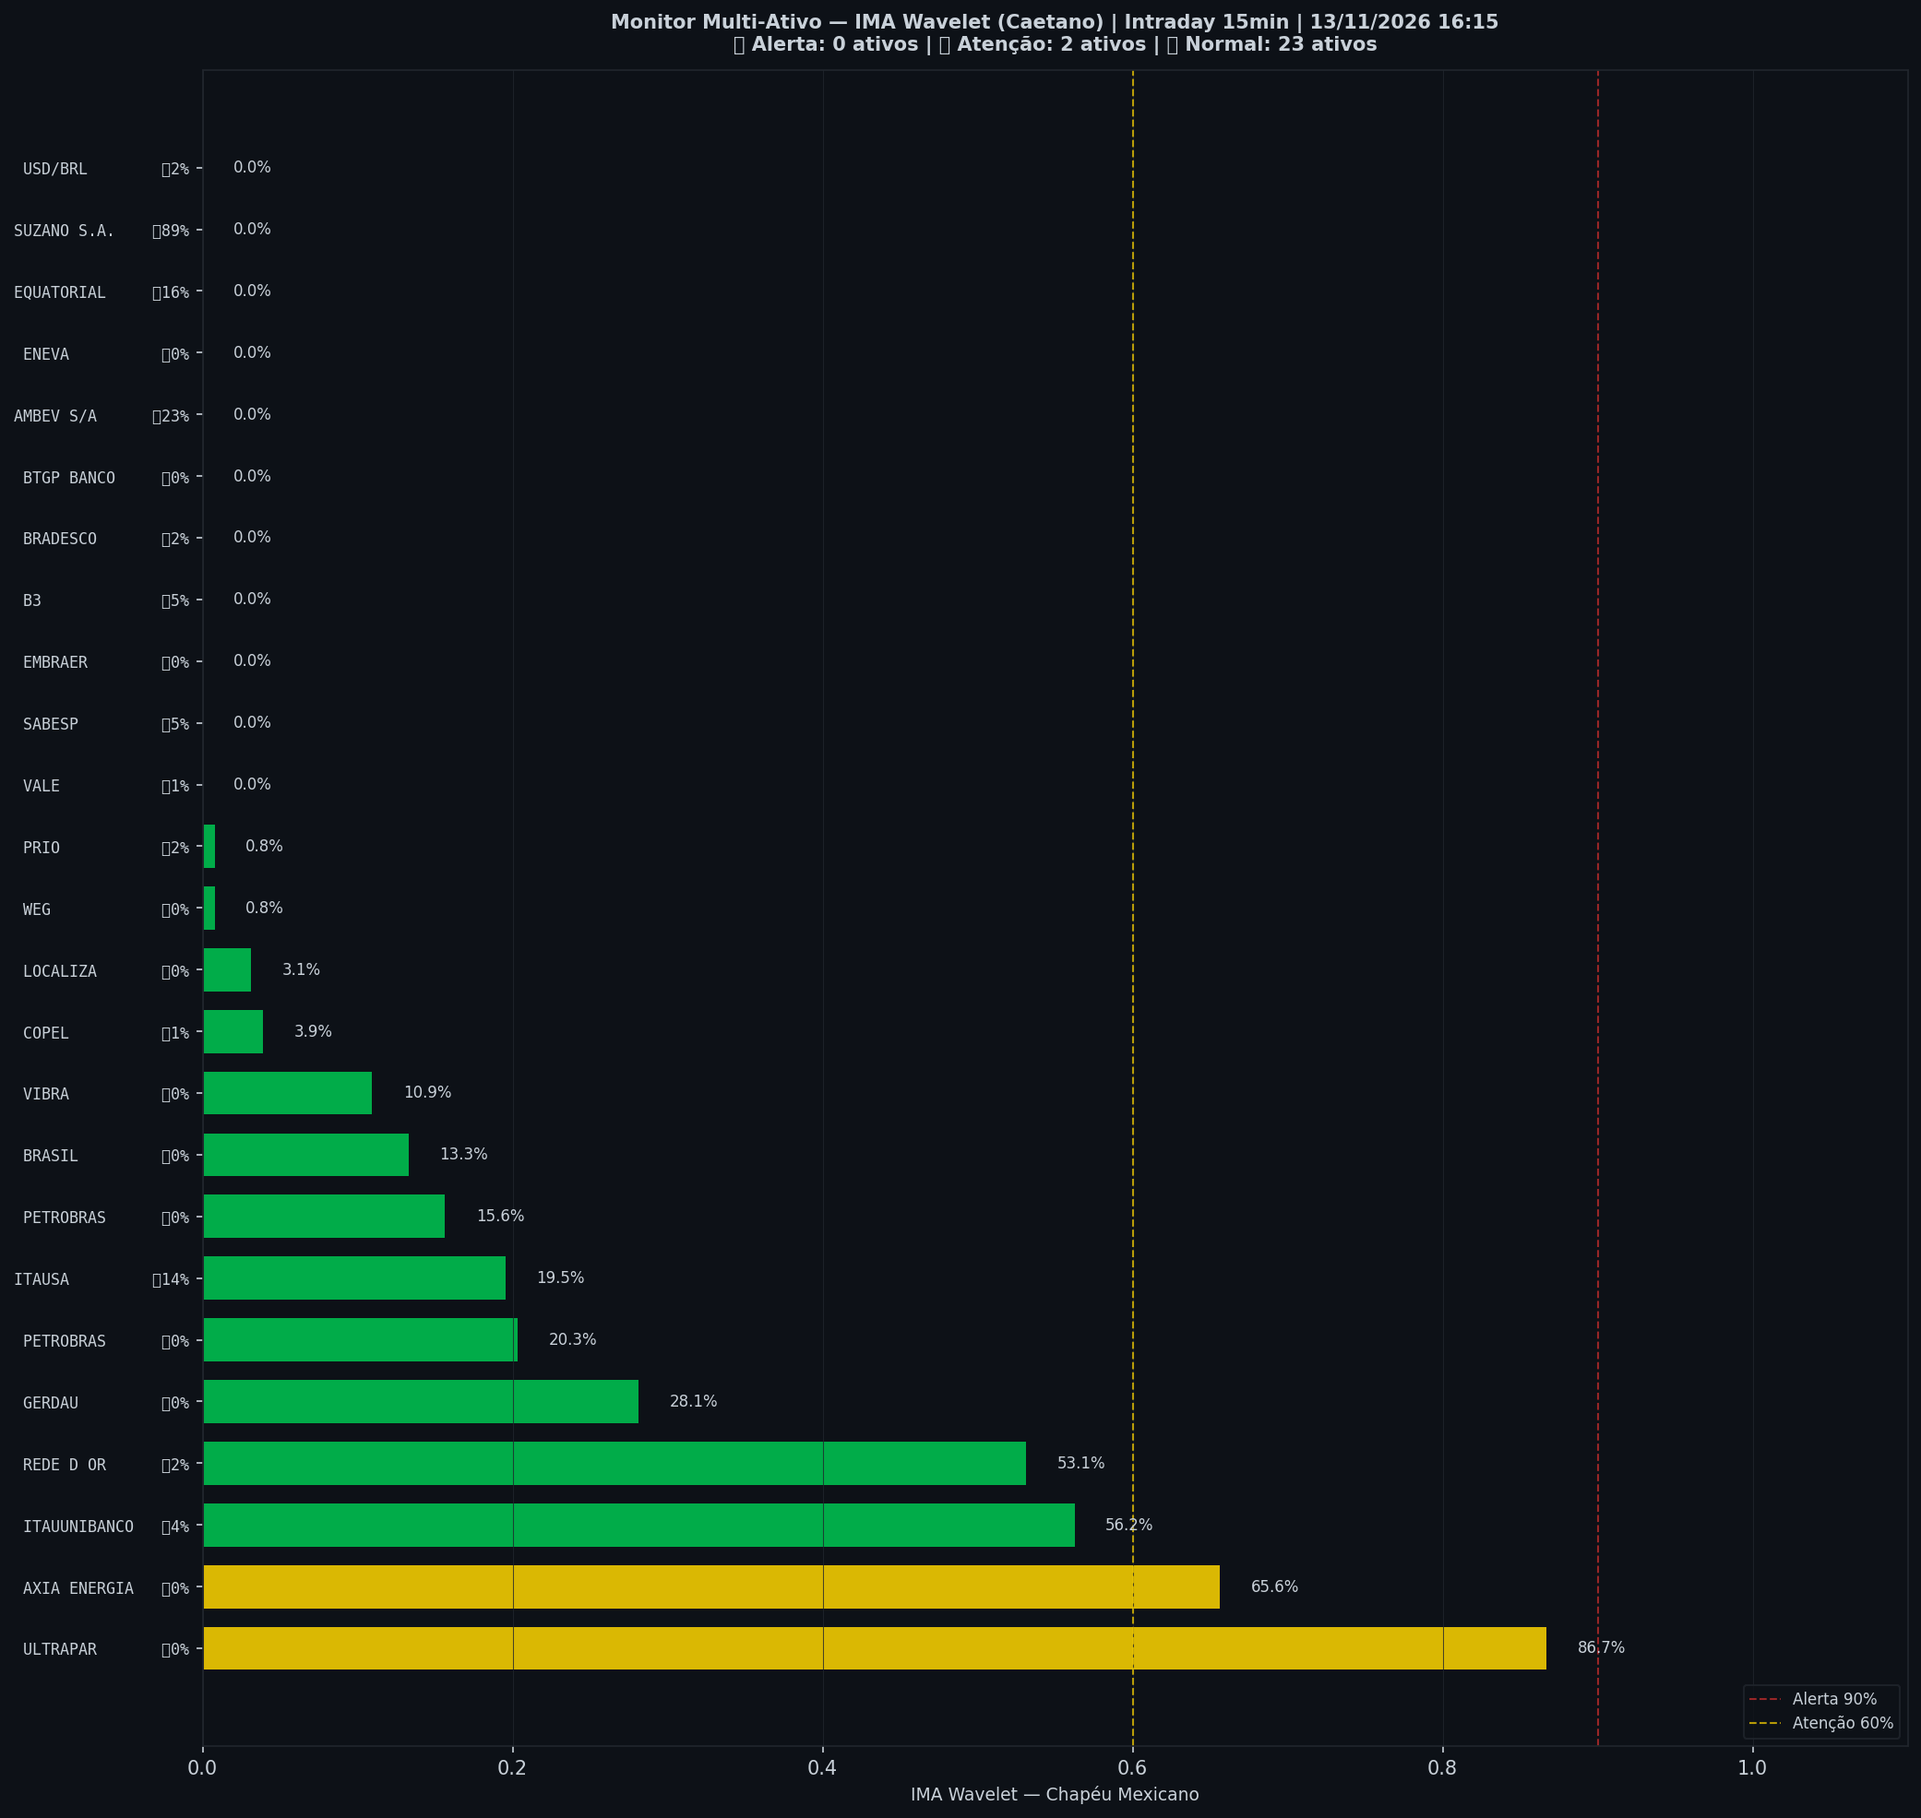
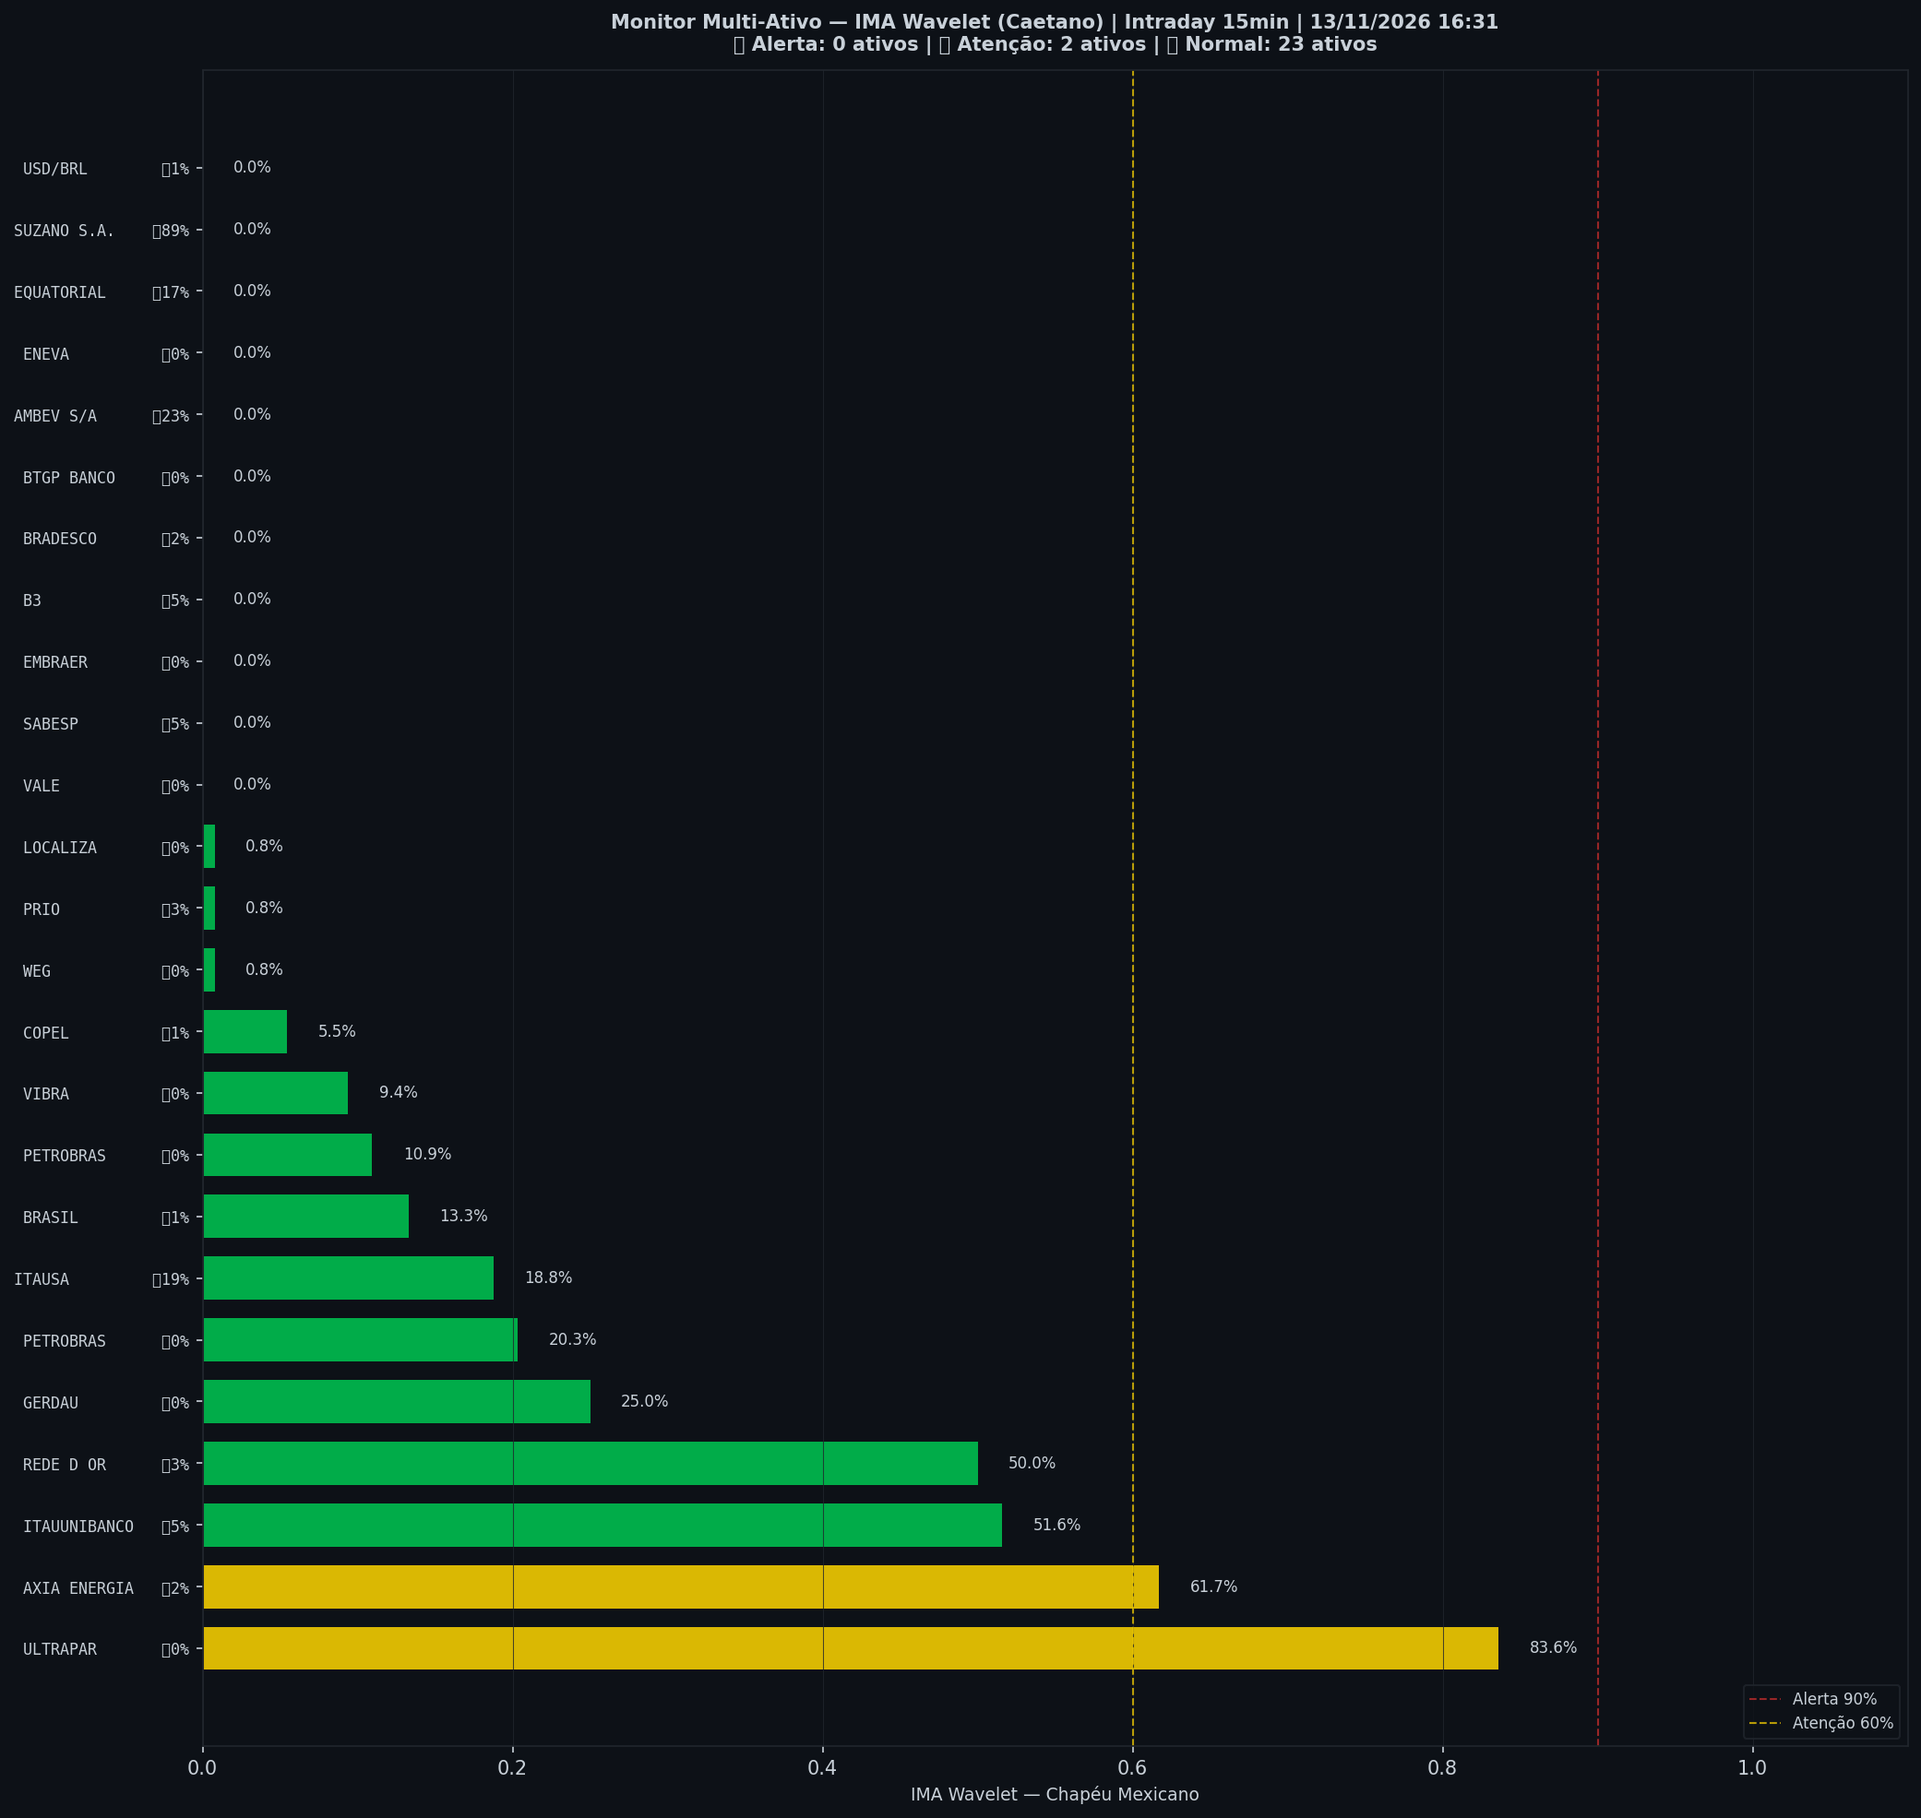
🤖 Auto: Sinal 13/11/2026 16:31

diff --git a/content/intraday/2026-11-13.md b/content/intraday/2026-11-13.md
@@ -1,10 +1,10 @@
 ---
-title: "🟢 Intraday 13/11/2026 16:00 BRT — VERDE"
+title: "🟢 Intraday 13/11/2026 16:15 BRT — VERDE"
 date: 2026-11-13
 tags: [intraday]
 ---
 
-> [!success] Onde o mercado está agora (13/11 16:00, candles de 15 min): **🟢 Calmo**
+> [!success] Onde o mercado está agora (13/11 16:15, candles de 15 min): **🟢 Calmo**
 > `Pânico ◀─────────●───────────▶ Euforia`
 >
 > O Ibovespa está dentro da sua faixa normal, sem excesso para cima nem para baixo.
@@ -20,7 +20,7 @@ tags: [intraday]
 > | 📍 **Sinais** | hoje: nenhum sinal | [abrir](sinais-topo-fundo/) |
 > | 🧪 **Placar ao vivo** | 1 operação(ões), 0 com lucro, soma -0,8% | [abrir](operacoes/) |
 
-> [!success] IMA Intraday · 15 min (13/11 16:00): 🟢 **VERDE** — Risco 2% · ▲ +1 p.p. vs leitura anterior
+> [!success] IMA Intraday · 15 min (13/11 16:15): 🟢 **VERDE** — Risco 1% · ▼ -1 p.p. vs leitura anterior
 > `░░░░░░░░░░░░░░░░░░░░`
 > Preço na faixa normal em torno da tendência.
 
@@ -32,13 +32,13 @@ tags: [intraday]
 >
 > *Leitura educacional baseada em 26 anos de dados, não recomendação. [Como usar](../metodologia/crise#3-como-usar-na-prática).*
 
-| Indicador — IMA Intraday · 15 min (13/11 16:00) | Valor |
+| Indicador — IMA Intraday · 15 min (13/11 16:15) | Valor |
 |---|---|
-| 🔴 ζ Topo — preço esticado acima da tendência | **2%** |
-| 🔵 ζ Fundo — preço esticado abaixo da tendência | 11% |
+| 🔴 ζ Topo — preço esticado acima da tendência | **1%** |
+| 🔵 ζ Fundo — preço esticado abaixo da tendência | 12% |
 | 🫧 LPPL bolha — alta super-exponencial (risco de crash) | 0% |
 | 🫧 LPPL antibolha — queda super-exponencial (risco de repique) | 0% |
-| 📊 Ibovespa | 172.183 pts |
+| 📊 Ibovespa | 172.207 pts |
 
 ![Gráfico do sinal](../graficos/sinal_intraday.png)
 
@@ -46,6 +46,7 @@ tags: [intraday]
 
 | Data | Zona | Evento | Risco | ζ Topo | ζ Fundo | LPPL |
 |---|---|---|---|---|---|---|
+| 2026-11-13 16:15 | 🟢 VERDE |  | **1%** | 1% | 12% | 0% |
 | 2026-11-13 16:00 | 🟢 VERDE |  | **2%** | 2% | 11% | 0% |
 | 2026-11-13 15:45 | 🟢 VERDE |  | **1%** | 1% | 10% | 0% |
 | 2026-11-13 15:30 | 🟢 VERDE |  | **0%** | 0% | 9% | 0% |
@@ -75,7 +76,6 @@ tags: [intraday]
 | 2026-11-12 17:45 | 🟢 VERDE |  | **0%** | 0% | 🔵 **84%** | 0% |
 | 2026-11-12 17:30 | 🟢 VERDE |  | **0%** | 0% | 🔵 **68%** | 0% |
 | 2026-11-12 17:15 | 🟢 VERDE |  | **0%** | 0% | 🔵 **71%** | 0% |
-| 2026-11-12 17:00 | 🟢 VERDE |  | **0%** | 0% | 🔵 **74%** | 0% |
 
 <small>Destaques: 🟡 ≥ 60% · 🔴 ≥ 90% (Risco e ζ Topo) · 🔵 ≥ 60% · 🔪 ≥ 90% (ζ Fundo) · 🫧 ≥ 30% · 🫧🔴 ≥ 50% (LPPL)</small>
 
@@ -84,32 +84,32 @@ tags: [intraday]
 **8% dos ativos em tensão** (1🔴 3🟡) · **1 com ζ Fundo alto** — quanto mais ativos disparam juntos, mais confiável o sinal.
 
 > [!warning] Em destaque no multi-ativo
-> 🔵 **SUZANO S.A.** ζ Fundo 89% · 🟡 **ULTRAPAR** ζ Topo 87% · 🟡 **AXIA ENERGIA** ζ Topo 66%
+> 🔵 **SUZANO S.A.** ζ Fundo 89% · 🟡 **ULTRAPAR** ζ Topo 84% · 🟡 **AXIA ENERGIA** ζ Topo 62%
 
 | Zona | Ativo | Setor | ζ Topo | ζ Fundo |
 |---|---|---|---|---|
 | 🟢 | **SUZANO S.A.** | Papel/Celulose | 0.0% | 🔵 **89.1%** |
-| 🔴 | **ULTRAPAR** | Outros | 🟡 **86.7%** | 0.0% |
-| 🟡 | **AXIA ENERGIA** | Energia | 🟡 **65.6%** | 0.0% |
-| 🟡 | **ITAUUNIBANCO** | Financeiro | 56.2% | 3.9% |
-| 🟡 | **REDE D OR** | Saúde | 53.1% | 2.3% |
-| 🟢 | **GERDAU** | Siderurgia | 28.1% | 0.0% |
+| 🔴 | **ULTRAPAR** | Outros | 🟡 **83.6%** | 0.0% |
+| 🟡 | **AXIA ENERGIA** | Energia | 🟡 **61.7%** | 1.6% |
+| 🟡 | **ITAUUNIBANCO** | Financeiro | 51.6% | 5.5% |
+| 🟡 | **REDE D OR** | Saúde | 50.0% | 3.1% |
+| 🟢 | **GERDAU** | Siderurgia | 25.0% | 0.0% |
 | 🟢 | **AMBEV S/A** | Consumo | 0.0% | 22.7% |
 | 🟢 | **PETROBRAS** | Petróleo | 20.3% | 0.0% |
-| 🟢 | **ITAUSA** | Financeiro | 19.5% | 14.1% |
-| 🟢 | **PETROBRAS** | Petróleo | 15.6% | 0.0% |
-| 🟢 | **EQUATORIAL** | Energia | 0.0% | 15.6% |
-| 🟢 | **BRASIL** | Financeiro | 13.3% | 0.0% |
-| 🟢 | **VIBRA** | Energia | 10.9% | 0.0% |
+| 🟢 | **ITAUSA** | Financeiro | 18.8% | 18.8% |
+| 🟢 | **EQUATORIAL** | Energia | 0.0% | 17.2% |
+| 🟢 | **BRASIL** | Financeiro | 13.3% | 0.8% |
+| 🟢 | **PETROBRAS** | Petróleo | 10.9% | 0.0% |
+| 🟢 | **VIBRA** | Energia | 9.4% | 0.0% |
 | 🟢 | **SABESP** | Saneamento | 0.0% | 5.5% |
-| 🟢 | **B3** | Financeiro | 0.0% | 4.7% |
-| 🟢 | **COPEL** | Energia | 3.9% | 0.8% |
-| 🟢 | **LOCALIZA** | Aluguel | 3.1% | 0.0% |
+| 🟢 | **B3** | Financeiro | 0.0% | 5.5% |
+| 🟢 | **COPEL** | Energia | 5.5% | 0.8% |
+| 🟢 | **PRIO** | Petróleo | 0.8% | 3.1% |
 | 🟢 | **BRADESCO** | Financeiro | 0.0% | 2.3% |
-| 🟢 | **PRIO** | Petróleo | 0.8% | 1.6% |
-| 🟢 | **USD/BRL** | Câmbio | 0.0% | 1.6% |
-| 🟢 | **VALE** | Mineração | 0.0% | 0.8% |
 | 🟢 | **WEG** | Industrial | 0.8% | 0.0% |
+| 🟢 | **LOCALIZA** | Aluguel | 0.8% | 0.0% |
+| 🟢 | **USD/BRL** | Câmbio | 0.0% | 0.8% |
+| 🟢 | **VALE** | Mineração | 0.0% | 0.0% |
 | 🟢 | **EMBRAER** | Outros | 0.0% | 0.0% |
 | 🟢 | **BTGP BANCO** | Financeiro | 0.0% | 0.0% |
 | 🟢 | **ENEVA** | Energia | 0.0% | 0.0% |
@@ -118,7 +118,7 @@ tags: [intraday]
 
 ![Monitor multi-ativo](../graficos/multi_intraday.png)
 
-*Página atualizada em 13/11/2026 16:15 BRT (leitura da barra de 2026-11-13 16:00 BRT).*
+*Página atualizada em 13/11/2026 16:31 BRT (leitura da barra de 2026-11-13 16:15 BRT).*
 
 > [!warning] O que este indicador não faz
 > Medido em 5 anos de Ibovespa, o ζ **não antecipa** topos nem fundos: a capacidade de separar o que sobe do que cai ficou em 0,49–0,52, e 0,50 é moeda jogada ao ar. Ele descreve o estado de agora; não é aviso do que vem. As zonas verde/amarelo/vermelho continuam na página como descrição desse estado — **não as use como sinal de entrada ou saída**.

diff --git a/content/index.md b/content/index.md
@@ -6,9 +6,9 @@ tags: [home]
 
 **As ondas do mercado, explicadas.** Leitura do Ibovespa com estatística de 26 anos, baseada no trabalho de pesquisadores e traders reconhecidos e adaptada por Jarbas Daniel da Costa.
 
-*Última atualização: 13/11/2026 16:16 BRT · Intraday 15min*
+*Última atualização: 13/11/2026 16:31 BRT · Intraday 15min*
 
-> [!success] Onde o mercado está agora (13/11 16:00, candles de 15 min): **🟢 Calmo**
+> [!success] Onde o mercado está agora (13/11 16:15, candles de 15 min): **🟢 Calmo**
 > `Pânico ◀─────────●───────────▶ Euforia`
 >
 > O Ibovespa está dentro da sua faixa normal, sem excesso para cima nem para baixo.
@@ -20,7 +20,7 @@ tags: [home]
 
 | Módulo | Agora | |
 |---|---|---|
-| 🌊 **Sinal IMA** | 🟢 VERDE · 🟢 calmo · ζ Topo 2% | [relatório](intraday/2026-11-13) |
+| 🌊 **Sinal IMA** | 🟢 VERDE · 🟢 calmo · ζ Topo 1% | [relatório](intraday/2026-11-13) |
 | 📈 **Tendência MME9** | Diário — fora<br>Semanal — fora | [abrir](operacoes/tendencia) |
 | 🎯 **Entradas do método** | ⏳ aguardando: Diário · Nadaraya, Diário · Semáforo N3 após ζ Fundo | [abrir](operacoes/entradas) |
 | 📍 **Sinais** | hoje: nenhum sinal | [abrir](sinais-topo-fundo/) |
@@ -44,18 +44,18 @@ tags: [home]
 > *Leitura educacional baseada em 26 anos de dados, não recomendação. [Como usar](metodologia/crise#3-como-usar-na-prática).*
 
 > [!info]- 🌊 Detalhes do Sinal IMA (indicadores e últimos 7 pregões)
-> > [!success] IMA Intraday · 15 min (13/11 16:00): 🟢 **VERDE** — Risco 2% · ▲ +1 p.p. vs leitura anterior
+> > [!success] IMA Intraday · 15 min (13/11 16:15): 🟢 **VERDE** — Risco 1% · ▼ -1 p.p. vs leitura anterior
 > > `░░░░░░░░░░░░░░░░░░░░`
 > > Preço na faixa normal em torno da tendência.
 >
 >
-> | Indicador — IMA Intraday · 15 min (13/11 16:00) | Valor |
+> | Indicador — IMA Intraday · 15 min (13/11 16:15) | Valor |
 > |---|---|
-> | 🔴 ζ Topo — preço esticado acima da tendência | **2%** |
-> | 🔵 ζ Fundo — preço esticado abaixo da tendência | 11% |
+> | 🔴 ζ Topo — preço esticado acima da tendência | **1%** |
+> | 🔵 ζ Fundo — preço esticado abaixo da tendência | 12% |
 > | 🫧 LPPL bolha — alta super-exponencial (risco de crash) | 0% |
 > | 🫧 LPPL antibolha — queda super-exponencial (risco de repique) | 0% |
-> | 📊 Ibovespa | 172.183 pts |
+> | 📊 Ibovespa | 172.207 pts |
 >
 > **Multi-ativo:** 8% em tensão (1🔴 3🟡 de 25 ativos)
 >
@@ -63,7 +63,7 @@ tags: [home]
 >
 > | Data | Zona | Risco | ζ Topo | ζ Fundo | LPPL |
 > |---|---|---|---|---|---|
-> | [13/11/2026](intraday/2026-11-13) | 🟢 VERDE | **2%** | 2% | 11% | 0% |
+> | [13/11/2026](intraday/2026-11-13) | 🟢 VERDE | **1%** | 1% | 12% | 0% |
 > | [12/11/2026](intraday/2026-11-12) | 🟢 VERDE | **0%** | 0% | 🔵 **80%** | 0% |
 >
 > <small>Destaques: 🟡 ≥ 60% · 🔴 ≥ 90% (Risco e ζ Topo) · 🔵 ≥ 60% · 🔪 ≥ 90% (ζ Fundo) · 🫧 ≥ 30% · 🫧🔴 ≥ 50% (LPPL)</small>

diff --git a/content/operacoes/entradas.md b/content/operacoes/entradas.md
@@ -31,7 +31,7 @@ description: "Compra depois de um sinal de fundo: Nadaraya no diário, semáforo
 > | Diário · Semáforo N3 após ζ Fundo | 07/07/26 a 172.021 | 10/08/26 a 172.021 | **+0,0%** | stop no preço de entrada |
 > | H4 · Semáforo N2 | 12/06/26 14h a 171.134 | 15/06/26 14h a 171.134 | **+0,0%** | stop no preço de entrada |
 >
-> <small>Atualizado 12/11 19:01 · checado no pregão às 16:15. Nota: ✅ passou no teste fora da amostra (walk-forward 2008–2026) · 🧪 em teste (H4, com aviso no Telegram) ou em observação (ζ, sem aviso) · 🧪 na tabela = operação do teste ao vivo.</small>
+> <small>Atualizado 12/11 19:01 · checado no pregão às 16:30. Nota: ✅ passou no teste fora da amostra (walk-forward 2008–2026) · 🧪 em teste (H4, com aviso no Telegram) ou em observação (ζ, sem aviso) · 🧪 na tabela = operação do teste ao vivo.</small>
 >
 > *Regras: depois de um sinal de fundo, o Diário entra quando o Nadaraya vira para cima; o Semanal e o H4 entram quando um fundo do semáforo fica fixo. Stop e saída de cada regra na [metodologia](metodologia/regras-de-operacao#entradas-do-método). Nenhuma regra de venda passou no teste. Os números do histórico têm viés de escolha (overfitting); o placar ao vivo é o que vale. Leitura educacional do método, não recomendação.*
 

diff --git a/content/historico.md b/content/historico.md
@@ -5,7 +5,7 @@ tags: [historico]
 
 # 📜 Histórico de leituras (v5)
 
-**2.371 leituras** desde 2026-07-03. Na página ficam os últimos 3 dias leitura por leitura e o resumo de cada dia anterior; o registro inteiro está no arquivo para baixar.
+**2.372 leituras** desde 2026-07-03. Na página ficam os últimos 3 dias leitura por leitura e o resumo de cada dia anterior; o registro inteiro está no arquivo para baixar.
 
 [**Baixar o histórico completo**](historico-completo.csv) (104 KB · abre no Excel e no LibreOffice)
 
@@ -16,6 +16,7 @@ tags: [historico]
 
 | Data | Modo | Zona | Risco | IMA | LPPL |
 |---|---|---|---|---|---|
+| 2026-11-13 16:15 | intraday | 🟢 VERDE | 1% | 1% | 0% |
 | 2026-11-13 16:00 | intraday | 🟢 VERDE | 2% | 2% | 0% |
 | 2026-11-13 15:45 | intraday | 🟢 VERDE | 1% | 1% | 0% |
 | 2026-11-13 15:30 | intraday | 🟢 VERDE | 0% | 0% | 0% |

diff --git a/content/operacoes/ranking.md b/content/operacoes/ranking.md
@@ -5,7 +5,7 @@ tags: [operacoes]
 description: "As regras de compra do site ordenadas pelo resultado, com treino, teste e placar ao vivo"
 ---
 
-*Atualizado 13/11/2026 16:16 · histórico simulado com as regras congeladas em 23/10/2026 + placar ao vivo.*
+*Atualizado 13/11/2026 16:31 · histórico simulado com as regras congeladas em 23/10/2026 + placar ao vivo.*
 
 As regras de compra do site, **da que mais rendeu para a que menos rendeu**. O resultado é por operação, no índice à vista, sem custos e sem juros compostos (a soma é só a soma das operações). **Treino** = entradas de 2001 a 2013 e **teste** = 2014 em diante: uma regra só é confiável se ganhou nos dois. O único resultado sem nenhum ajuste ao histórico é o **placar ao vivo**.
 

diff --git a/content/linha-do-tempo/index.md b/content/linha-do-tempo/index.md
@@ -5,7 +5,7 @@ description: "Todo sinal, ordem, stop e aviso do Pêndulo de Mercado, do mais re
 tags: [eventos]
 ---
 
-*Atualizada 13/11/2026 16:16 BRT · a cada 15 min no pregão e às 19h.*
+*Atualizada 13/11/2026 16:31 BRT · a cada 15 min no pregão e às 19h.*
 
 Tudo o que o sistema fez ou detectou, **do mais recente para o mais antigo**: sinais de topo e fundo, ordens de compra e de venda armadas, compras, vendas, stops, avisos de 🚨 preço perto do nível e mudanças do Sinal IMA. Os **últimos 7 dias** ficam abertos; o resto, por **ano → mês → dia**.
 
